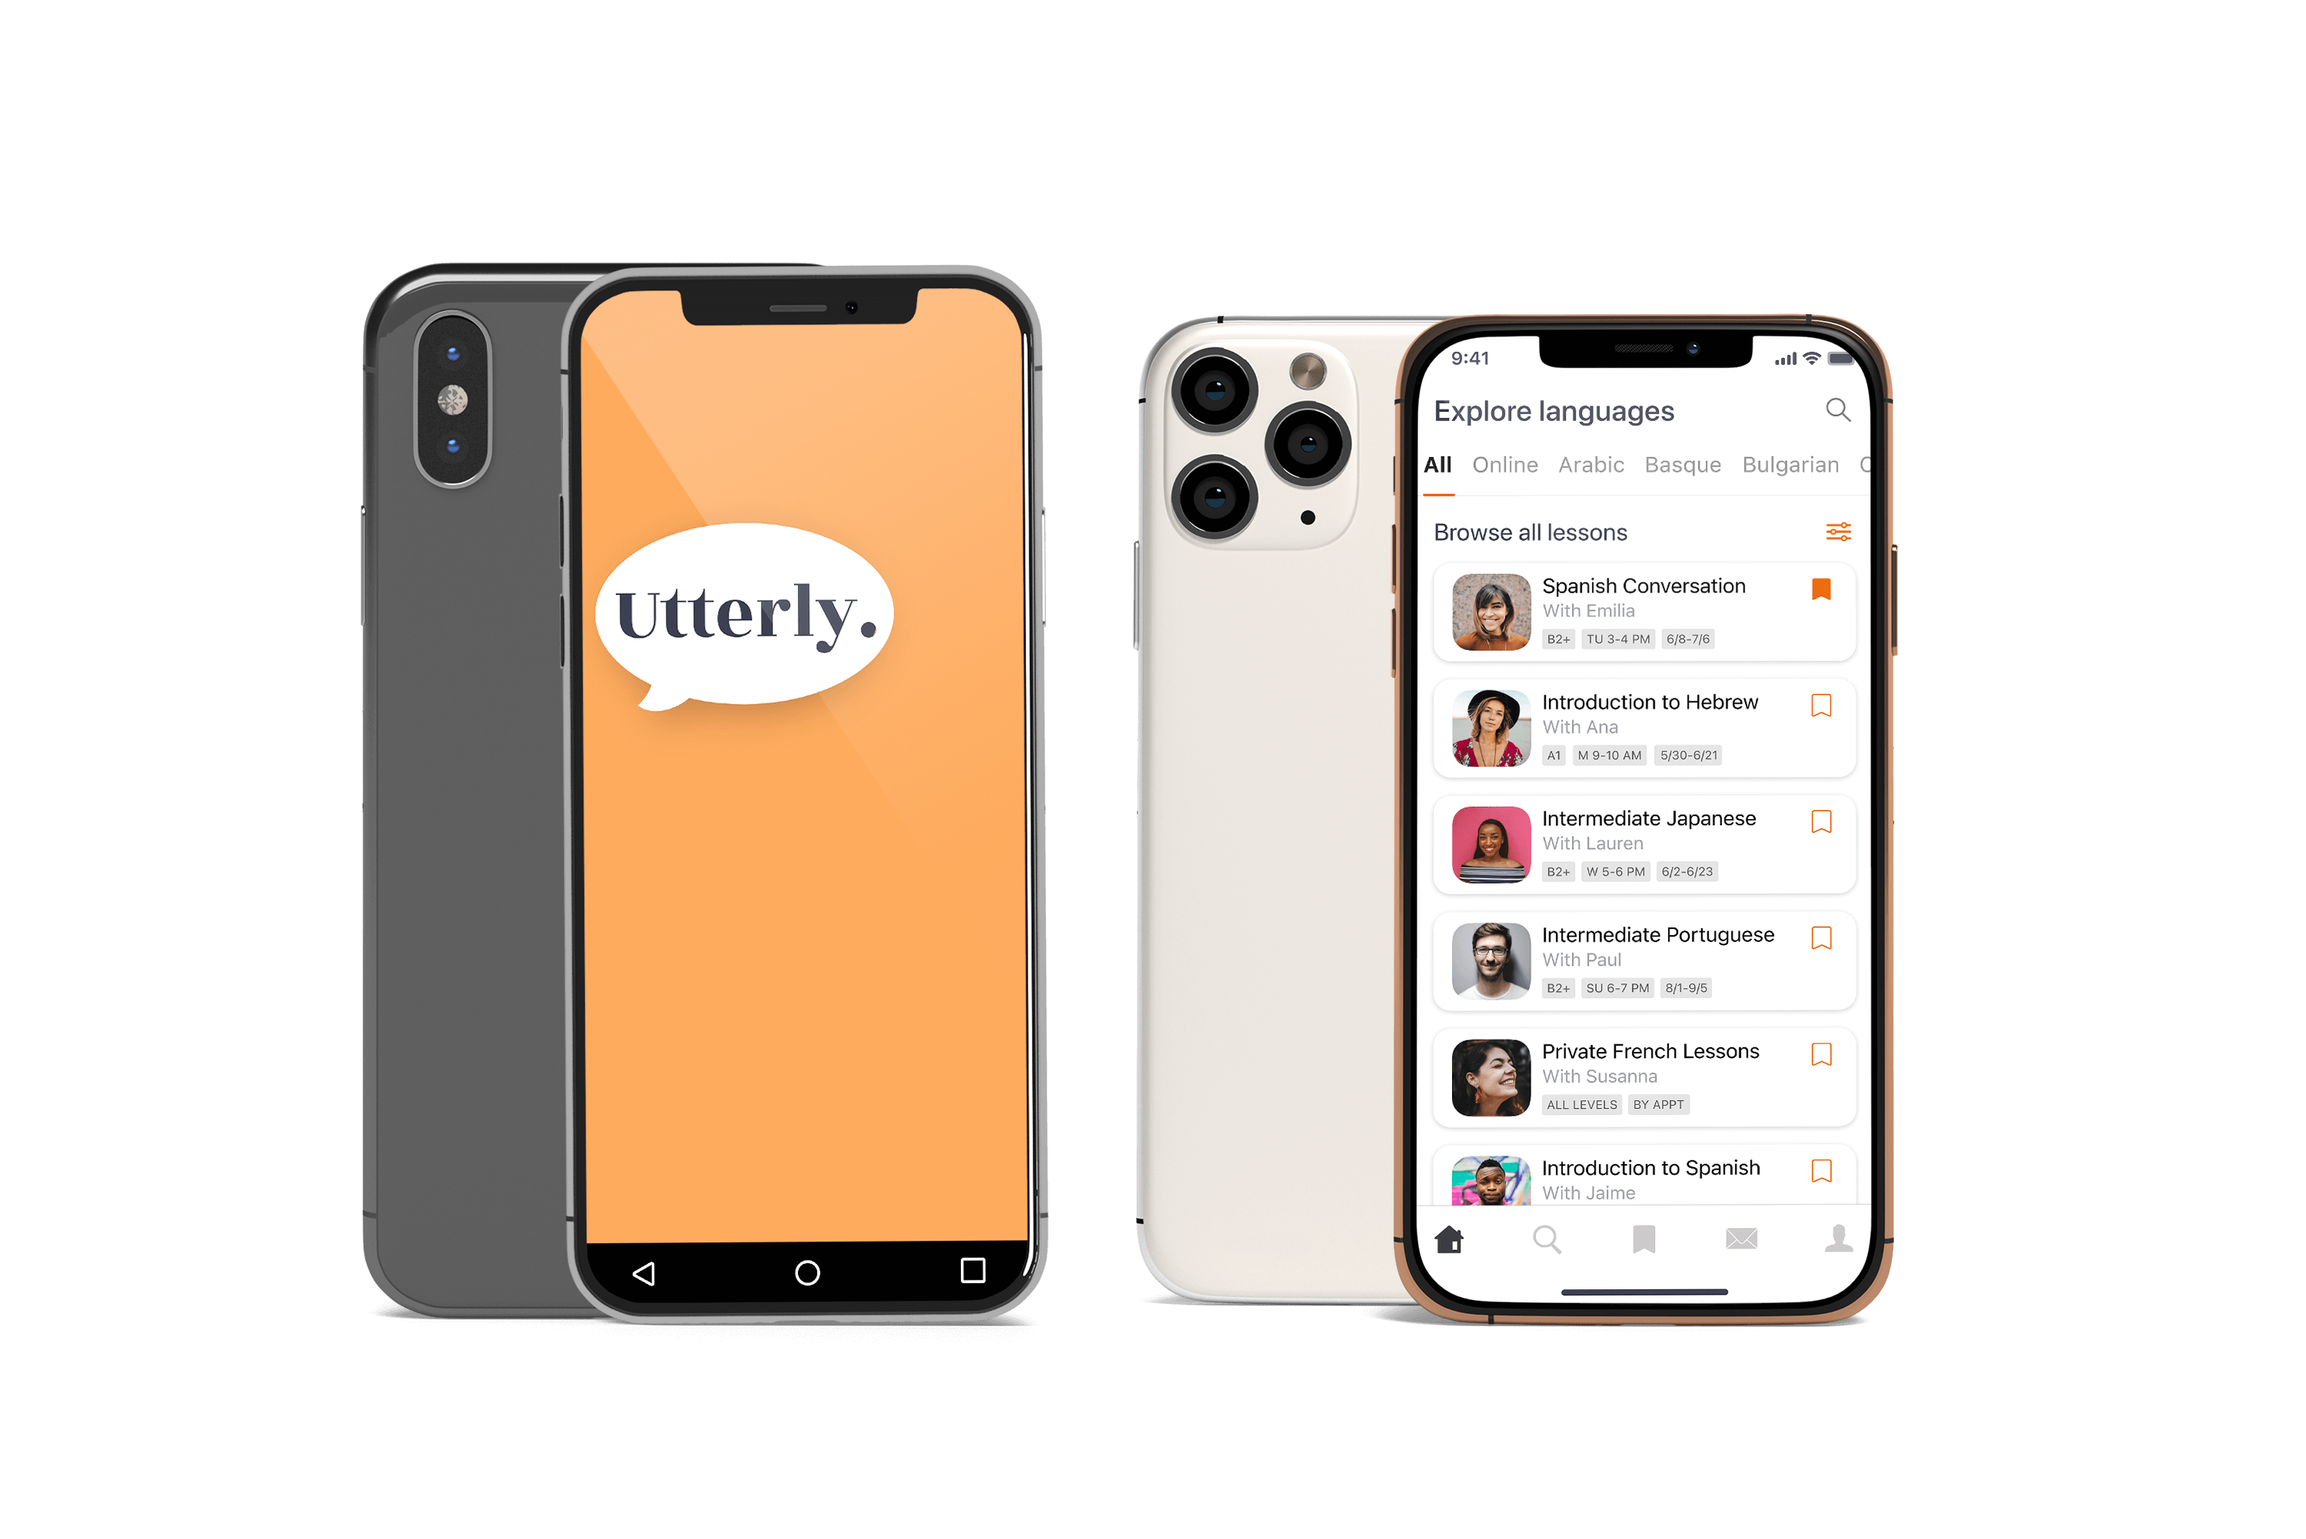
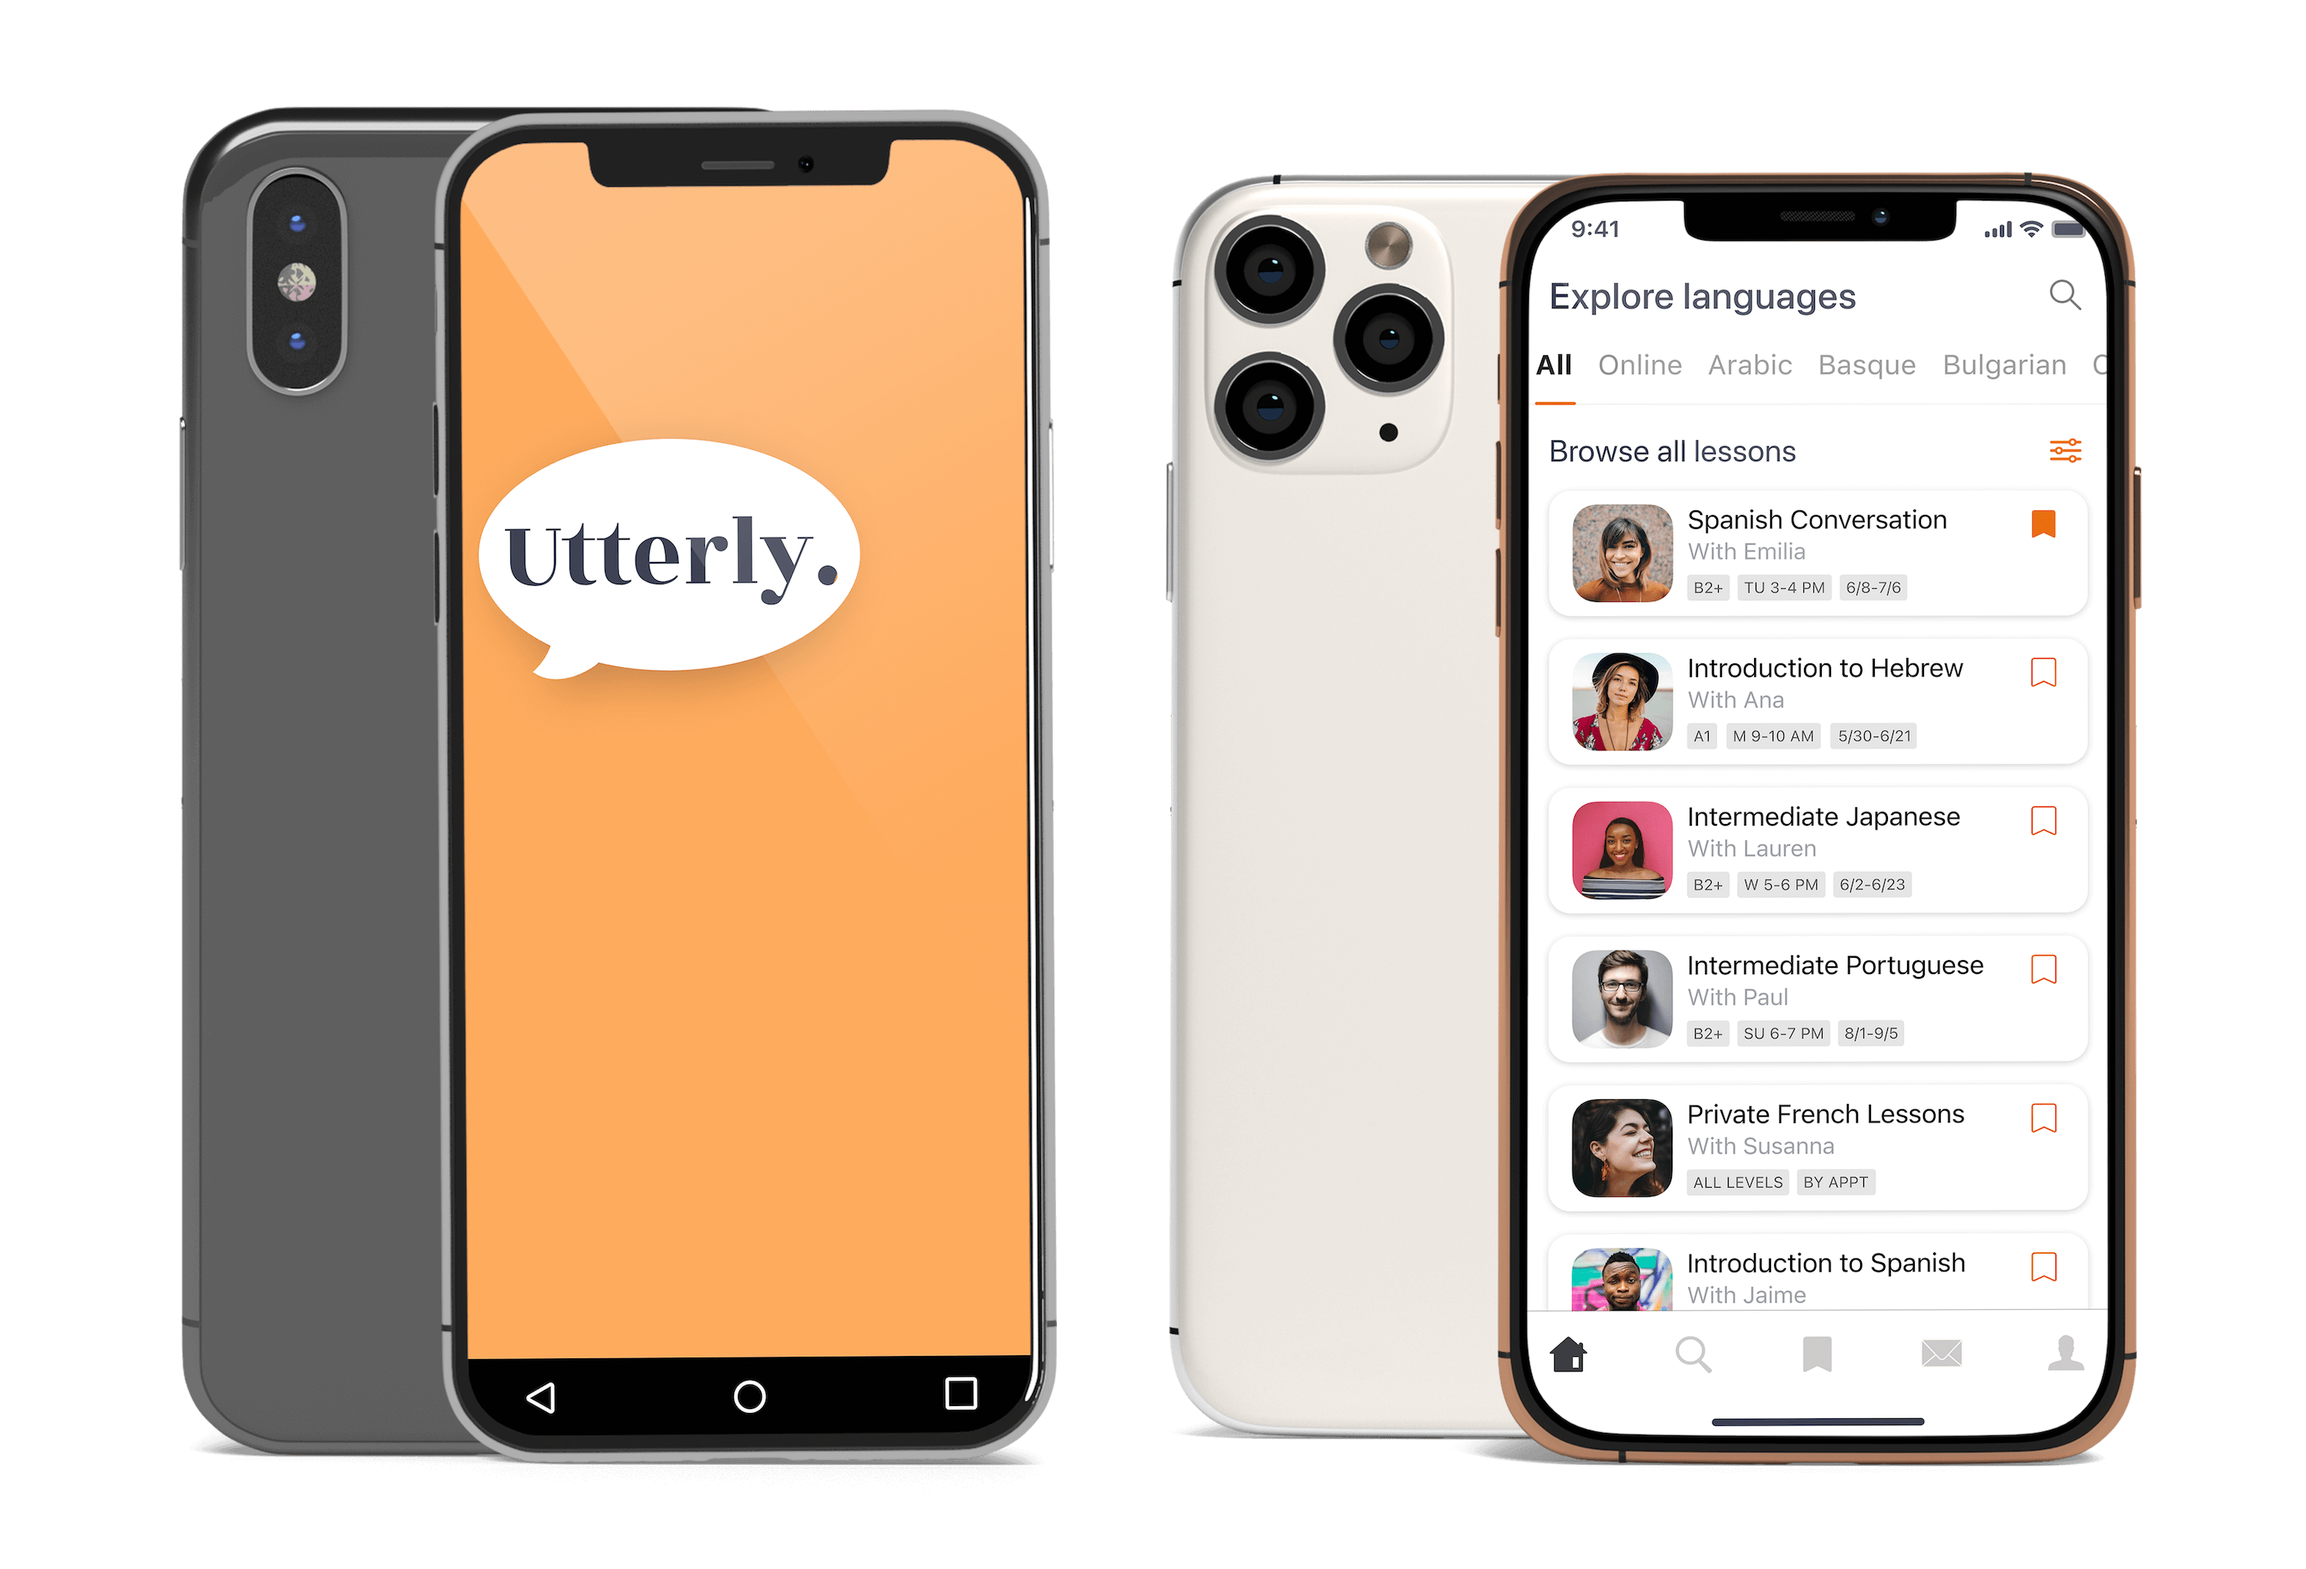
utterly cover color

diff --git a/index.html b/index.html
@@ -91,7 +91,7 @@
             </div>
 
             <div class="project2">
-               <div class="proj-img-div">
+               <div class="proj-img-div orange">
                   <picture>
                      <source srcset="img/utterly/u-cover.png" media=" (max-width: 639px)">
                      <img class="proj-img-lg" src="img/utterly/u-cover.png">

diff --git a/css/styles.css b/css/styles.css
@@ -368,6 +368,11 @@ li:hover .nav-item:hover:after {
    background: #90B301;
 }
 
+.orange {
+   background: #febf7f;
+ 
+}
+
 .proj-img {
    width: 100%;
    border-radius: 14px;
@@ -377,6 +382,7 @@ li:hover .nav-item:hover:after {
 .proj-img-lg {
    width: 100%;
 }
+
 
 .proj-txt {
    flex: 4;
